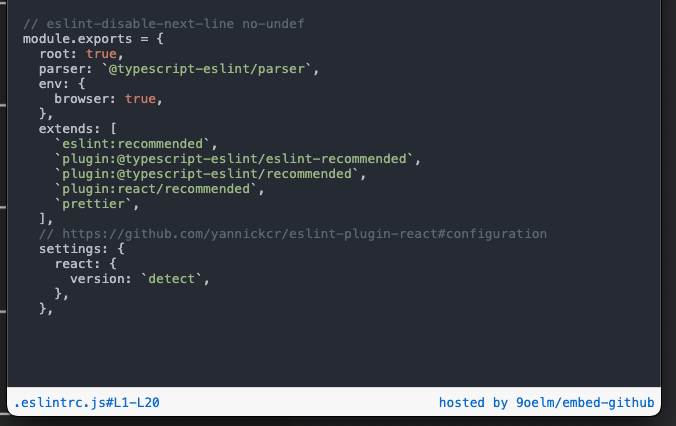
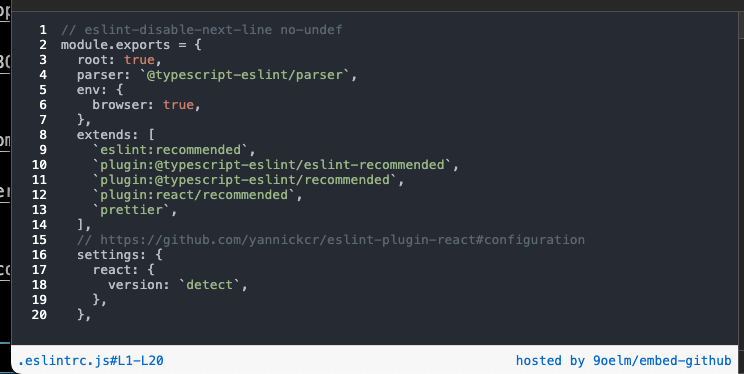
docs: update screenshot

diff --git a/README.md b/README.md
@@ -1,8 +1,10 @@
 # embed-github
 
+![iframe Screenshot](./iframe-screenshot.png)
+
 `embed-github` is a simple Cloudflare worker that fetches source code from any public Github repository, highlights the code in a HTML format and sends it back as a response.
 
-Note that `embed-github` is a SSR application where the worker renders all HTML beforehand before sending the response, so the client will only see the website with minimal overhead.
+Note that `embed-github` is a SSR application where the worker renders all HTML beforehand before sending the response, so the client will only see the website with minimal overhead. Zero external stylesheets or scripts.
 
 ## How to use
 
@@ -20,10 +22,6 @@ This is how you would use it in your `iframe`:
   src="https://embed-github.lazer1.xyz?gh=https://github.com/graphcentral/notion/blob/70cd31090c324f36537c0f60160a4c22452f54e3/.eslintrc.js&lines=L1-L20"
 ></iframe>
 ```
-
-Then it will show an iframe like:
-
-![iframe Screenshot](./iframe-screenshot.png)
 
 ### Available query parameters
 
@@ -134,5 +132,4 @@ Any of the file extensions below can be used as a `lang` query parameter to over
 ## Todos
 
 - More rigorous error handling (probably just return an HTML page explaining what went wrong)
-- Show line numbers
 - Adjustable font size & line height
